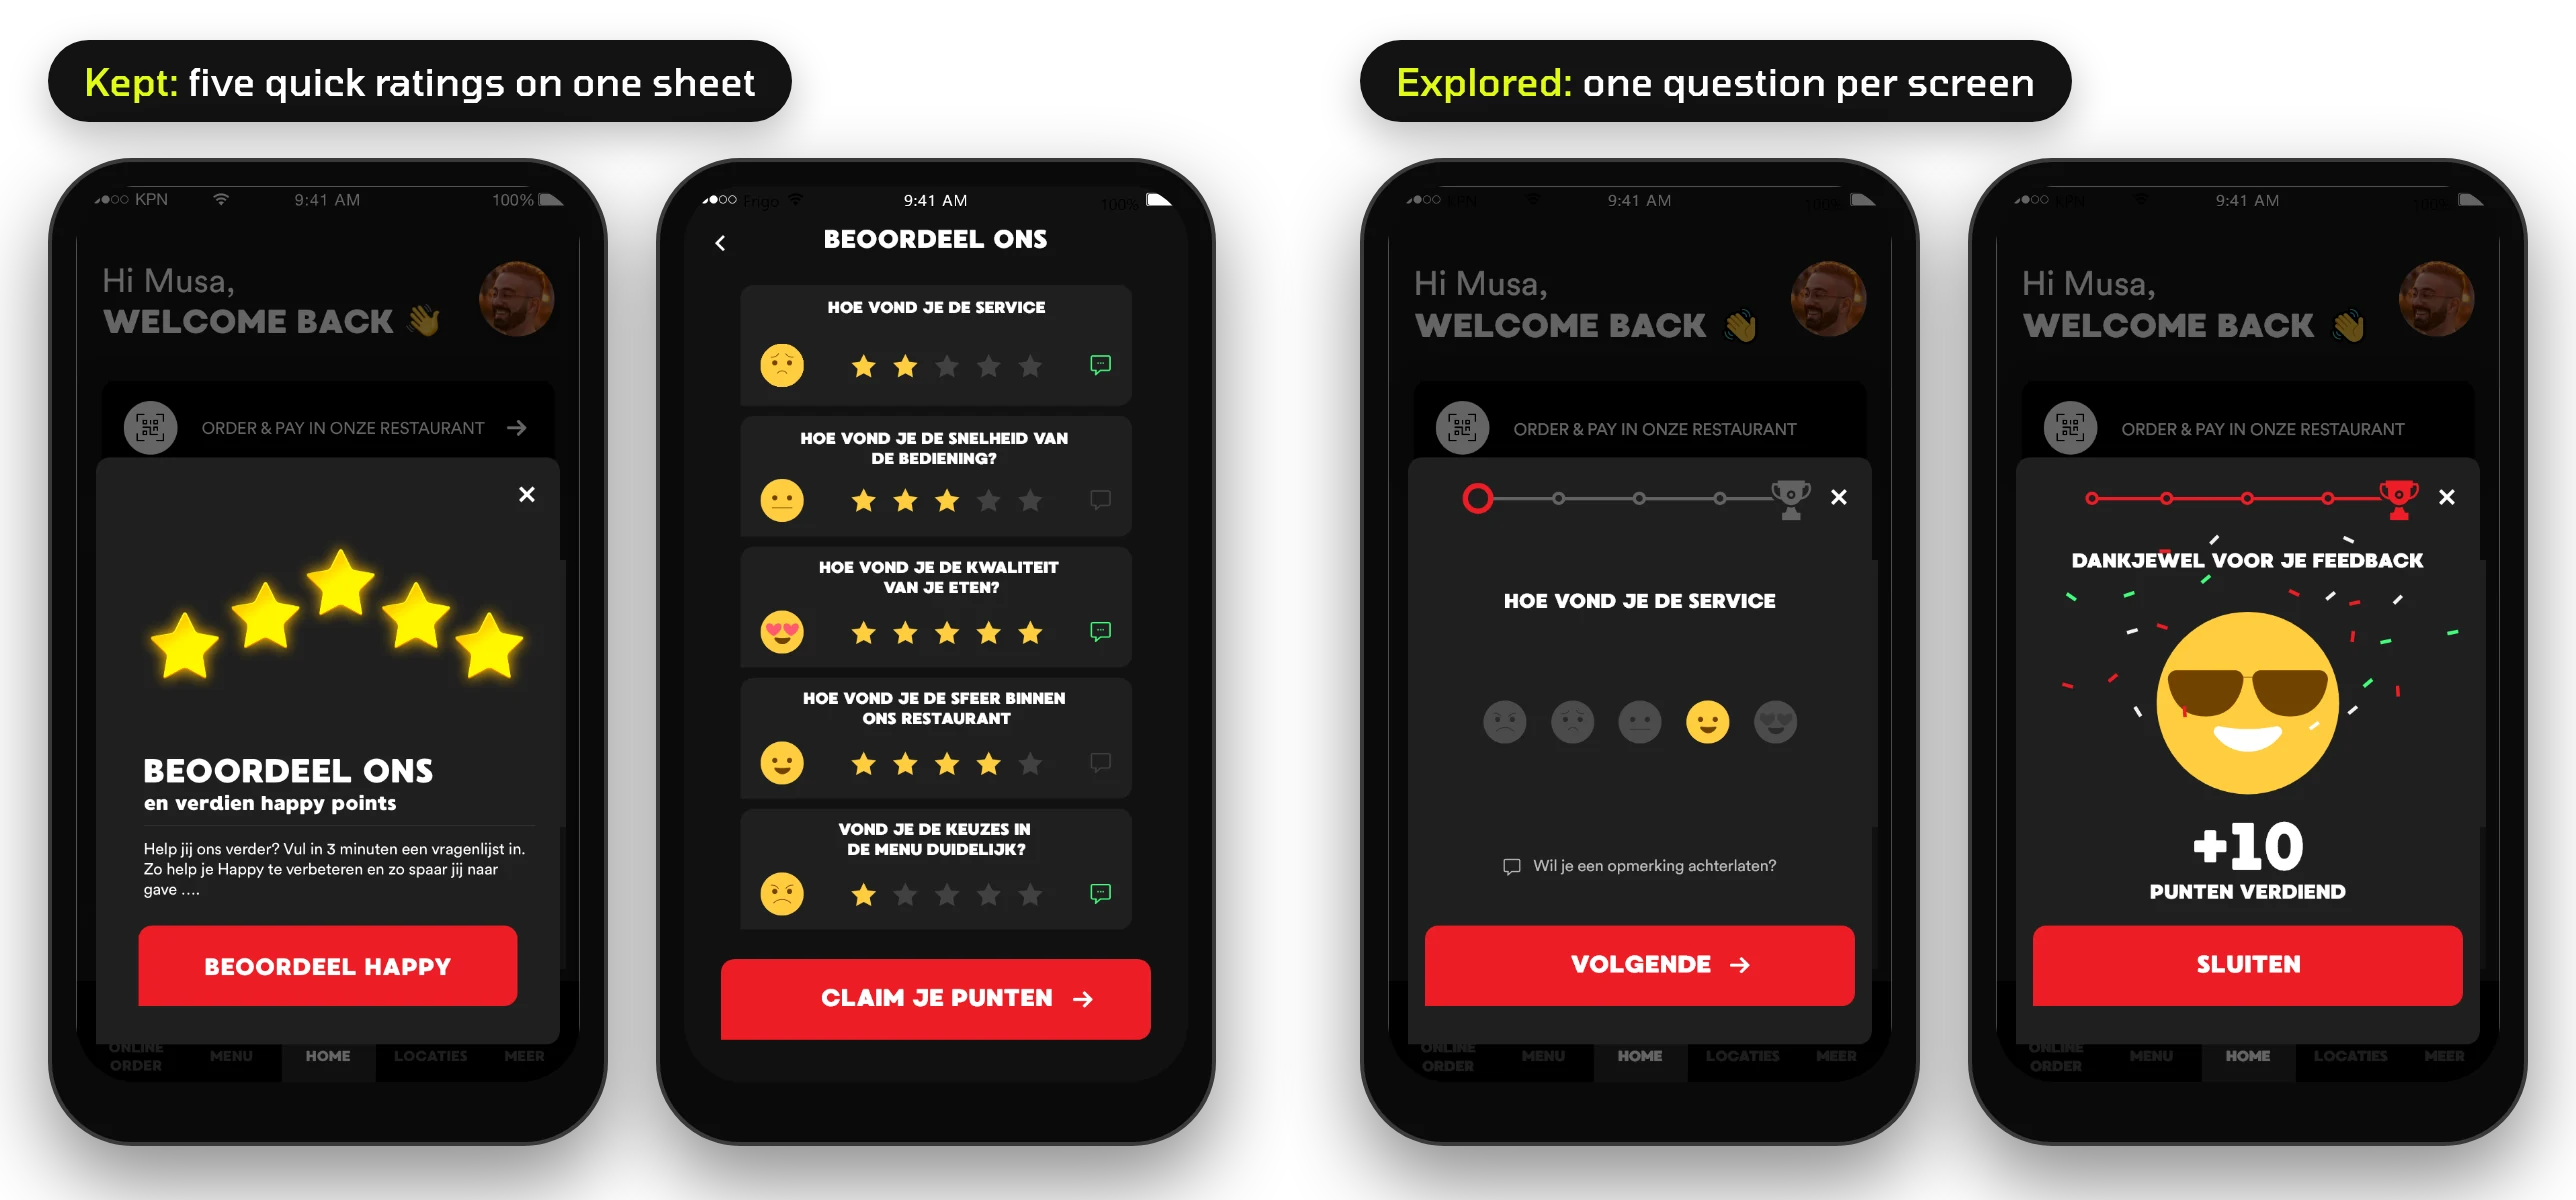
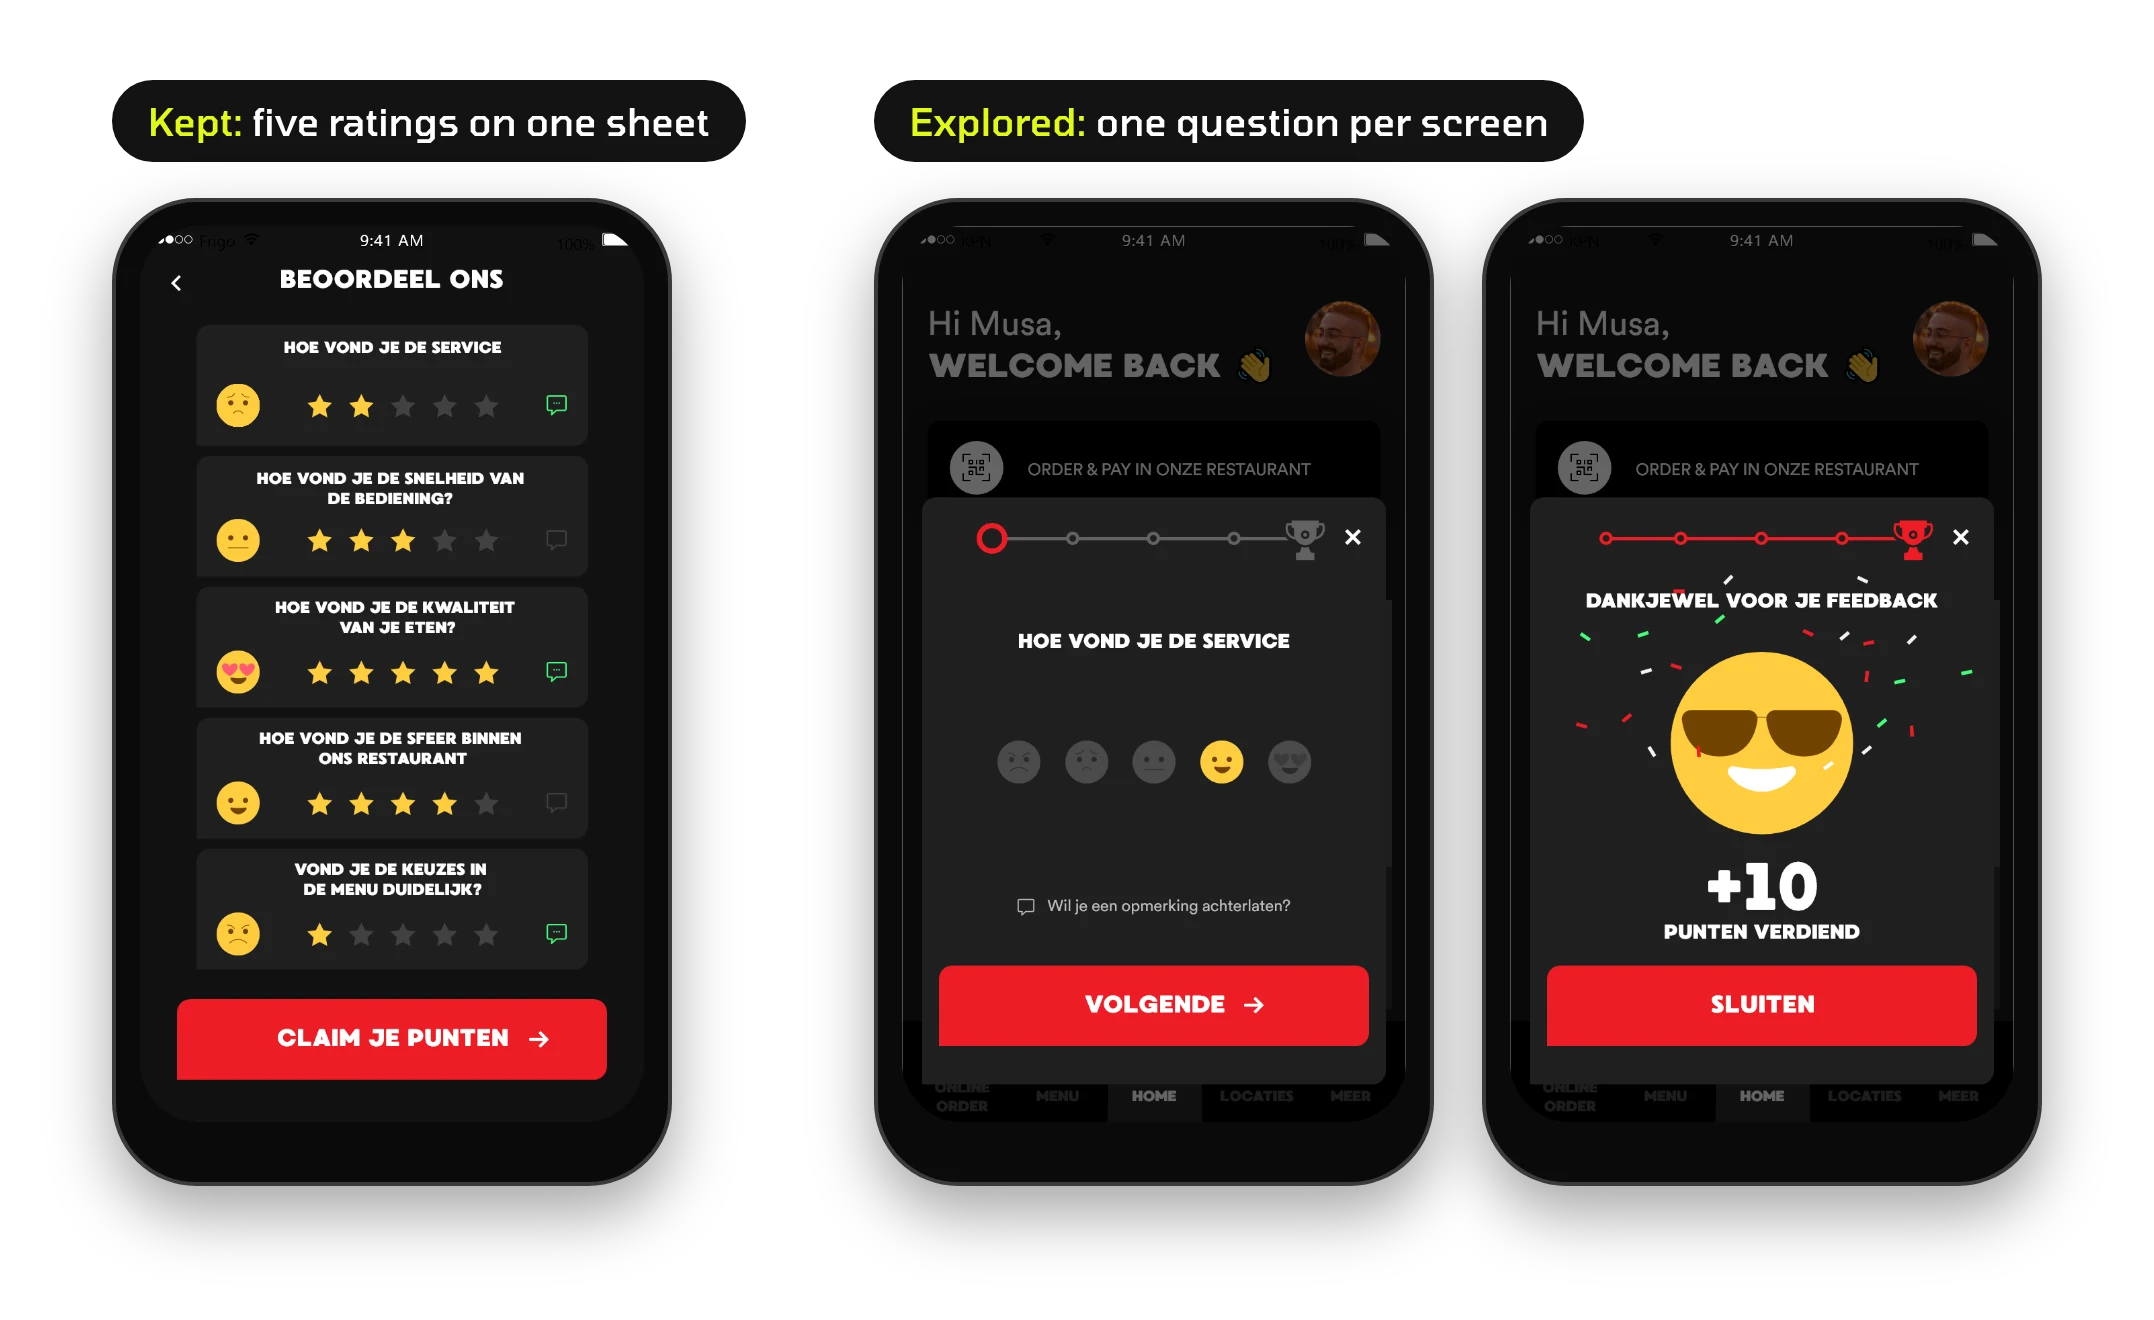
Happy Italy: research and feedback images with room for their shadows, larger phones [skip netlify]

diff --git a/src/data/work.ts b/src/data/work.ts
@@ -322,7 +322,7 @@ export const cases: Case[] = [
 					'The chain wanted to hear from guests while the visit was still fresh. In the flow I drew, the request comes a while after the order or once the till marks the bill paid, and answering earns points, so feedback sits inside the loyalty loop instead of in a survey email.',
 					'I explored several ways to ask. The option that lost: one question per screen, with faces and a progress line towards a trophy. The prototype kept five quick star ratings on one sheet, on the service, the speed, the food, the atmosphere and the menu, each with an optional comment.',
 				],
-				shot: { kind: 'image', img: '/img/happy/happy-feedback.webp', alt: 'Rating a visit in the app. Kept: a prompt that promises points, then five quick star ratings on one sheet, on the service, the speed, the food, the atmosphere and the menu. Explored: one question per screen with faces and a progress line, ending in plus ten points', w: 2576, h: 1200 },
+				shot: { kind: 'image', img: '/img/happy/happy-feedback.webp', alt: 'Rating a visit in the app. Kept: five quick star ratings on one sheet, on the service, the speed, the food, the atmosphere and the menu, with a button to claim your points. Explored: one question per screen with faces and a progress line, ending in plus ten points', w: 2154, h: 1320 },
 			},
 			{
 				heading: 'Rewards waited for the till',
@@ -416,7 +416,7 @@ export const cases: Case[] = [
 					'In a short feedback round on the site, 8 of 40 people could not book a table or did not see how straight away. I then gave five colleagues at head office three tasks in Lookback: order takeaway, book a table for two at eight, and look at the menu while you wait. The menu was a popup of plain text, one tester said she couldn’t see what she was choosing, and allergen information sat two clicks away from the dish.',
 					'While the tests ran, I cut one step from the booking path on the old site straight away. The rest needed a new site.',
 				],
-				shot: { kind: 'image', img: '/img/happy/happy-web-research.webp', alt: 'The old Happy Italy homepage in November 2020, with the restaurants stacked down the page, next to the numbers measured in 2020: 28,189 visitors in one week, 86% on a phone, 52% of visits ended within ten seconds, and 8 of 40 people could not book a table or not straight away', w: 1912, h: 1560 },
+				shot: { kind: 'image', img: '/img/happy/happy-web-research.webp', alt: 'The old Happy Italy homepage in November 2020, with the restaurants stacked down the page, next to the numbers measured in 2020: 28,189 visitors in one week, 86% on a phone, 52% of visits ended within ten seconds, and 8 of 40 people could not book a table or not straight away', w: 2080, h: 1720 },
 			},
 			{
 				heading: 'A site head office could edit itself',
